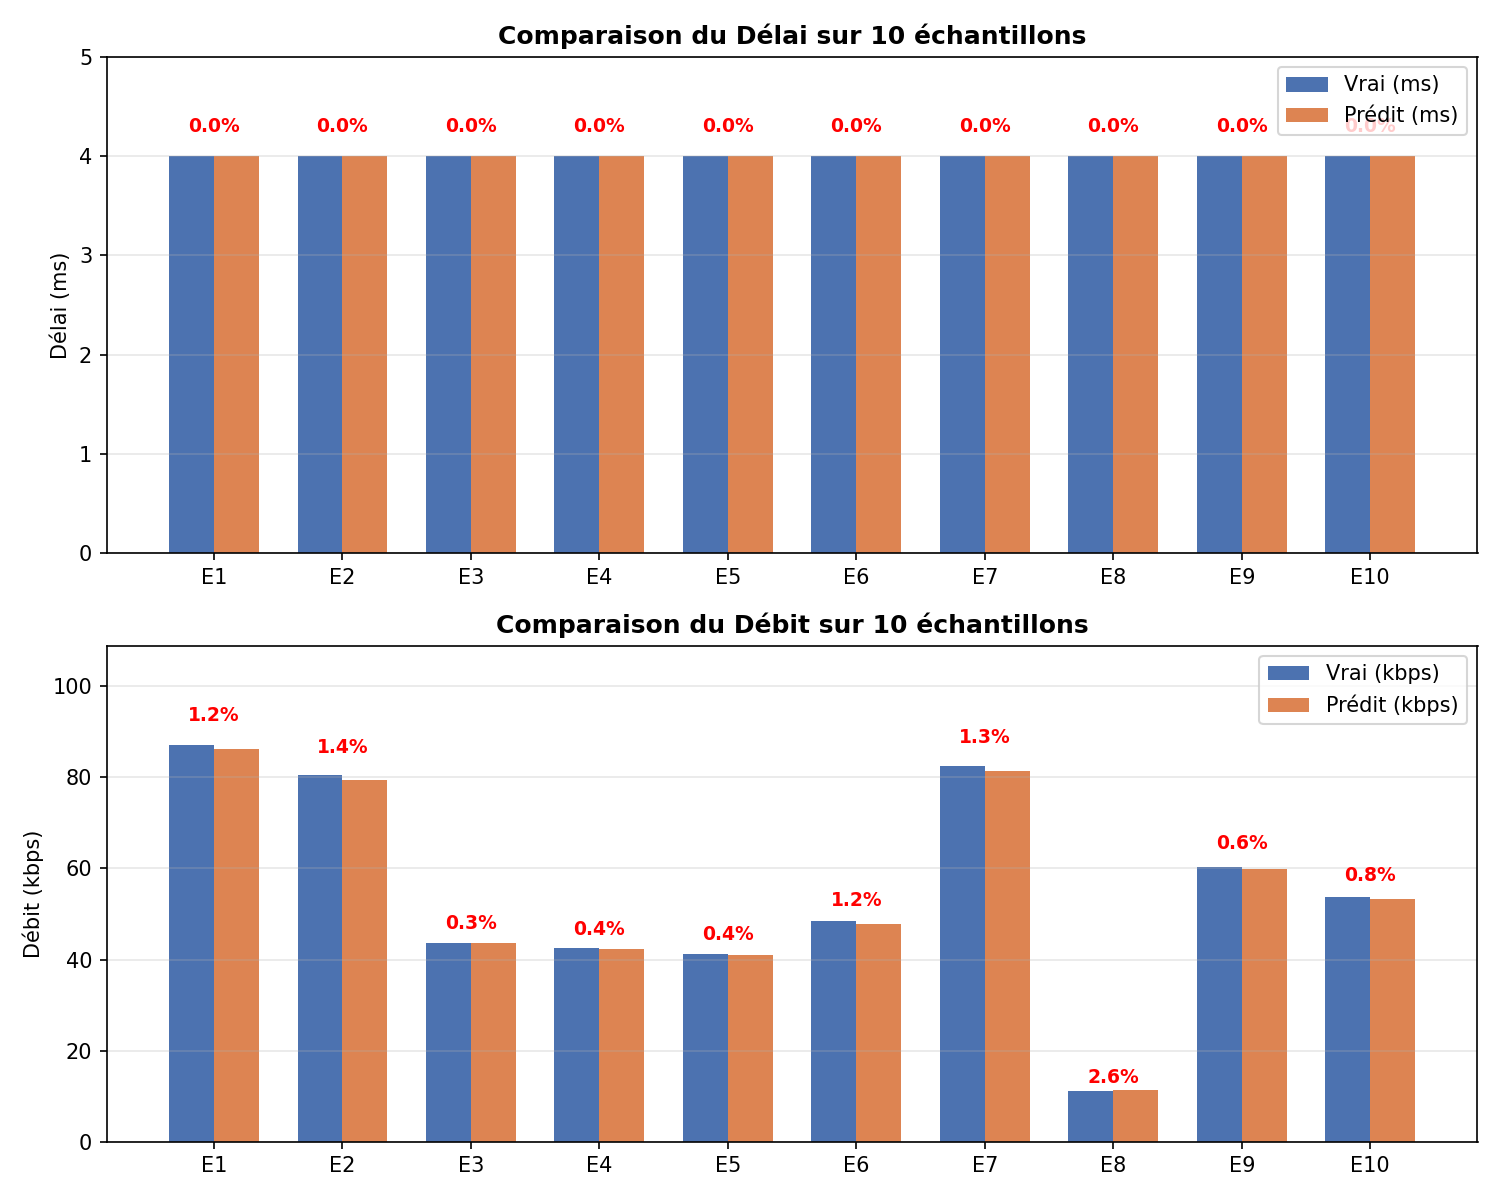
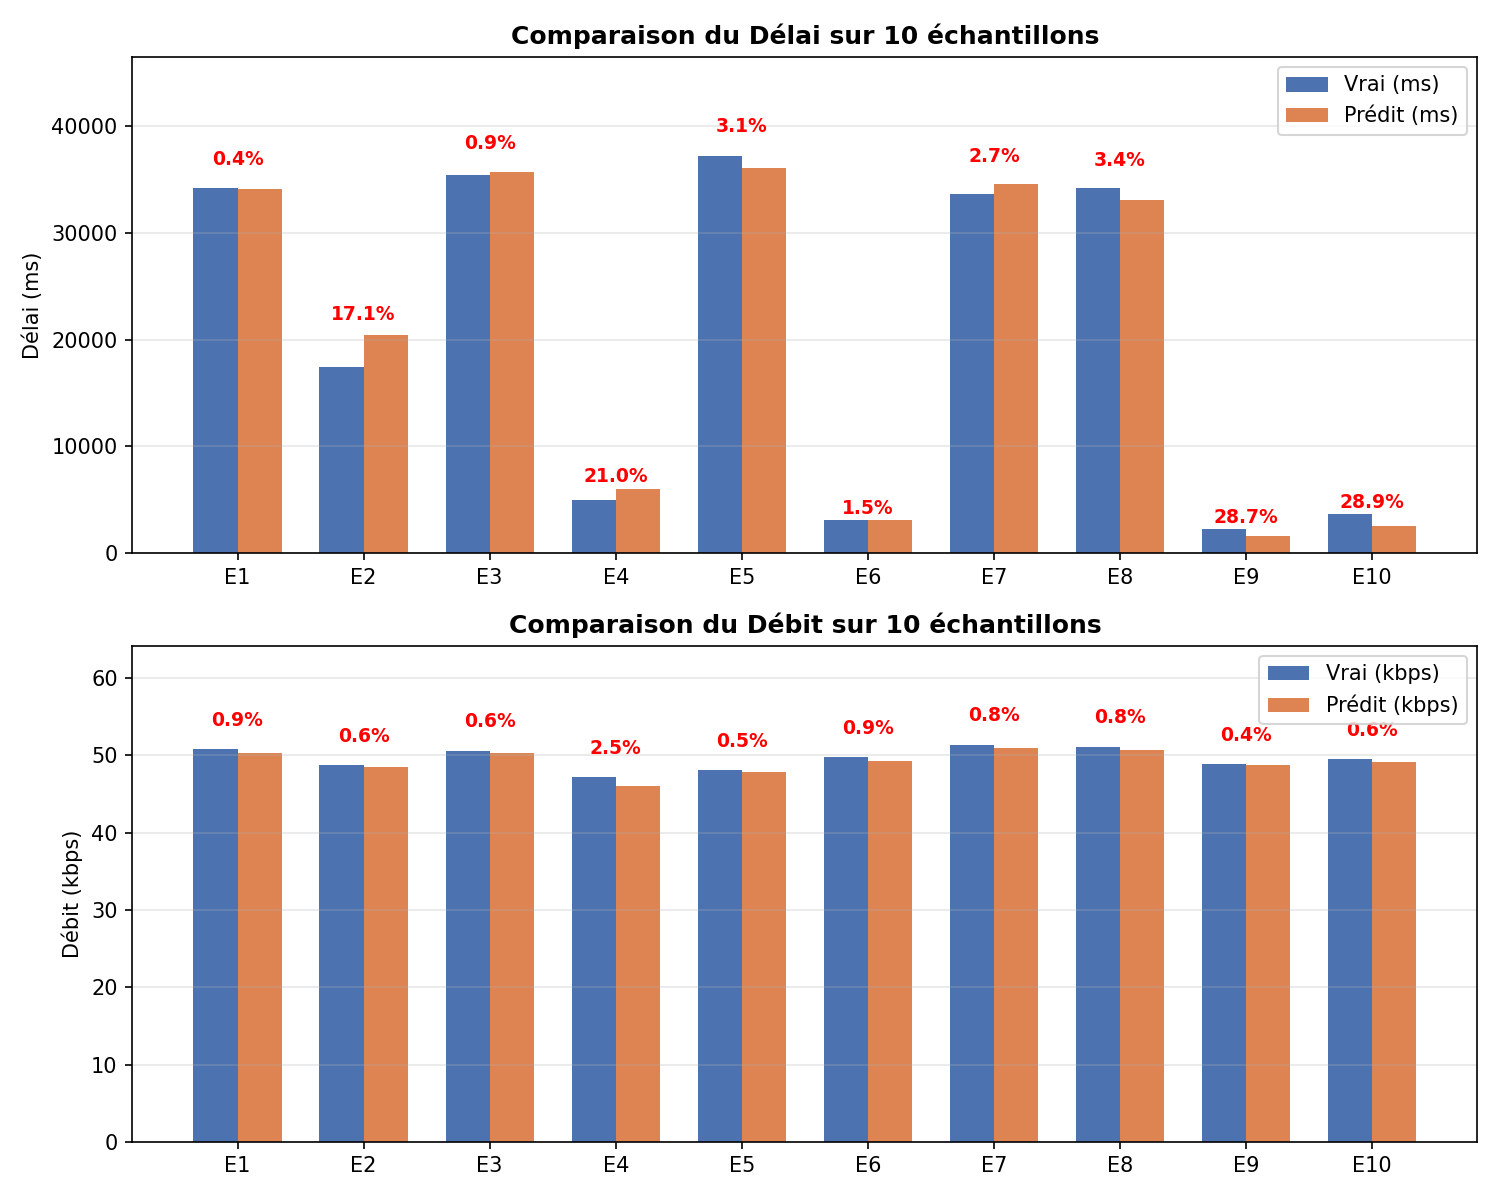
delai refine

diff --git a/eval_samples.py b/eval_samples.py
@@ -2,6 +2,7 @@ import os
 import random
 import torch
 import numpy as np
+import copy
 import matplotlib.pyplot as plt
 import matplotlib
 matplotlib.use("Agg")
@@ -24,7 +25,7 @@ def load_model(target, checkpoint_path, device):
     ).to(device)
     
     # Charger les poids
-    state_dict = torch.load(checkpoint_path, map_location=device)
+    state_dict = torch.load(checkpoint_path, map_location=device, weights_only=True)
     model.load_state_dict(state_dict)
     model.eval()
     return model
@@ -40,9 +41,16 @@ def main():
     delay_ckpt = "wireless_gnn/checkpoints/delay/best.pt"
     tput_ckpt  = "wireless_gnn/checkpoints/throughput/best.pt"
     
+    import wireless_gnn.model as wgnn_model
+    
     # 1. Charger les deux modèles
     model_delay = load_model("delay", delay_ckpt, device)
+    
+    # Le modèle débit (throughput) a été entraîné avec 3 features de queue au lieu de 2
+    original_dim = wgnn_model.QUEUE_FEAT_DIM
+    wgnn_model.QUEUE_FEAT_DIM = 3
     model_tput  = load_model("throughput", tput_ckpt, device)
+    wgnn_model.QUEUE_FEAT_DIM = original_dim
     
     if model_delay is None and model_tput is None:
         print("Aucun modèle n'a été trouvé. Veuillez lancer l'entraînement d'abord.")
@@ -81,8 +89,9 @@ def main():
             res_delay = predict(model_delay, graph, norm, device)
             
             # Les valeurs sont retournées en tant que tableaux (arrays) par la fonction predict
-            true_d_s = res_delay["delay_true"].item() if res_delay["delay_true"].size == 1 else res_delay["delay_true"][0]
-            pred_d_s = res_delay["delay_pred"].item() if res_delay["delay_pred"].size == 1 else res_delay["delay_pred"][0]
+            # On prend la moyenne sur tous les flux de l'échantillon pour avoir une vue globale
+            true_d_s = res_delay["delay_true"].mean()
+            pred_d_s = res_delay["delay_pred"].mean()
             
             # Conversion en millisecondes (ms)
             true_d_ms = true_d_s * 1000
@@ -99,11 +108,17 @@ def main():
             
         # --- THROUGHPUT (Débit) ---
         if model_tput is not None:
+            # Adaptation pour le modèle débit (qui attend 3 features)
+            graph_tput = copy.deepcopy(graph)
+            if graph_tput["queue_feat"].shape[1] == 2:
+                pad = np.zeros((graph_tput["queue_feat"].shape[0], 1), dtype=np.float32)
+                graph_tput["queue_feat"] = np.hstack([graph_tput["queue_feat"], pad])
+
             # Prédiction
-            res_tput = predict(model_tput, graph, norm, device)
+            res_tput = predict(model_tput, graph_tput, norm, device)
             
-            true_t_bps = res_tput["throughput_true"].item() if res_tput["throughput_true"].size == 1 else res_tput["throughput_true"][0]
-            pred_t_bps = res_tput["throughput_pred"].item() if res_tput["throughput_pred"].size == 1 else res_tput["throughput_pred"][0]
+            true_t_bps = res_tput["throughput_true"].mean()
+            pred_t_bps = res_tput["throughput_pred"].mean()
             
             # Conversion en kbps
             true_t_kbps = true_t_bps / 1000

diff --git a/wireless_gnn/train.py b/wireless_gnn/train.py
@@ -71,8 +71,10 @@ def process_graph(
         # Training loss: Huber in log-space (scale-invariant)
         loss = log_huber_loss(pred_log, true_log)
 
-        # Track log-space loss as metric (MAPE in physical space is misleading)
-        metric = loss.item()
+        # Track REAL physical MAPE as metric (not Huber loss)
+        pred_phys = torch.expm1(pred_log)
+        mape_phys = mape_loss(pred_phys, true_raw)
+        metric = mape_phys.item()
 
     else:
         mean = torch.tensor(normalizer.tput_mean, device=device)
